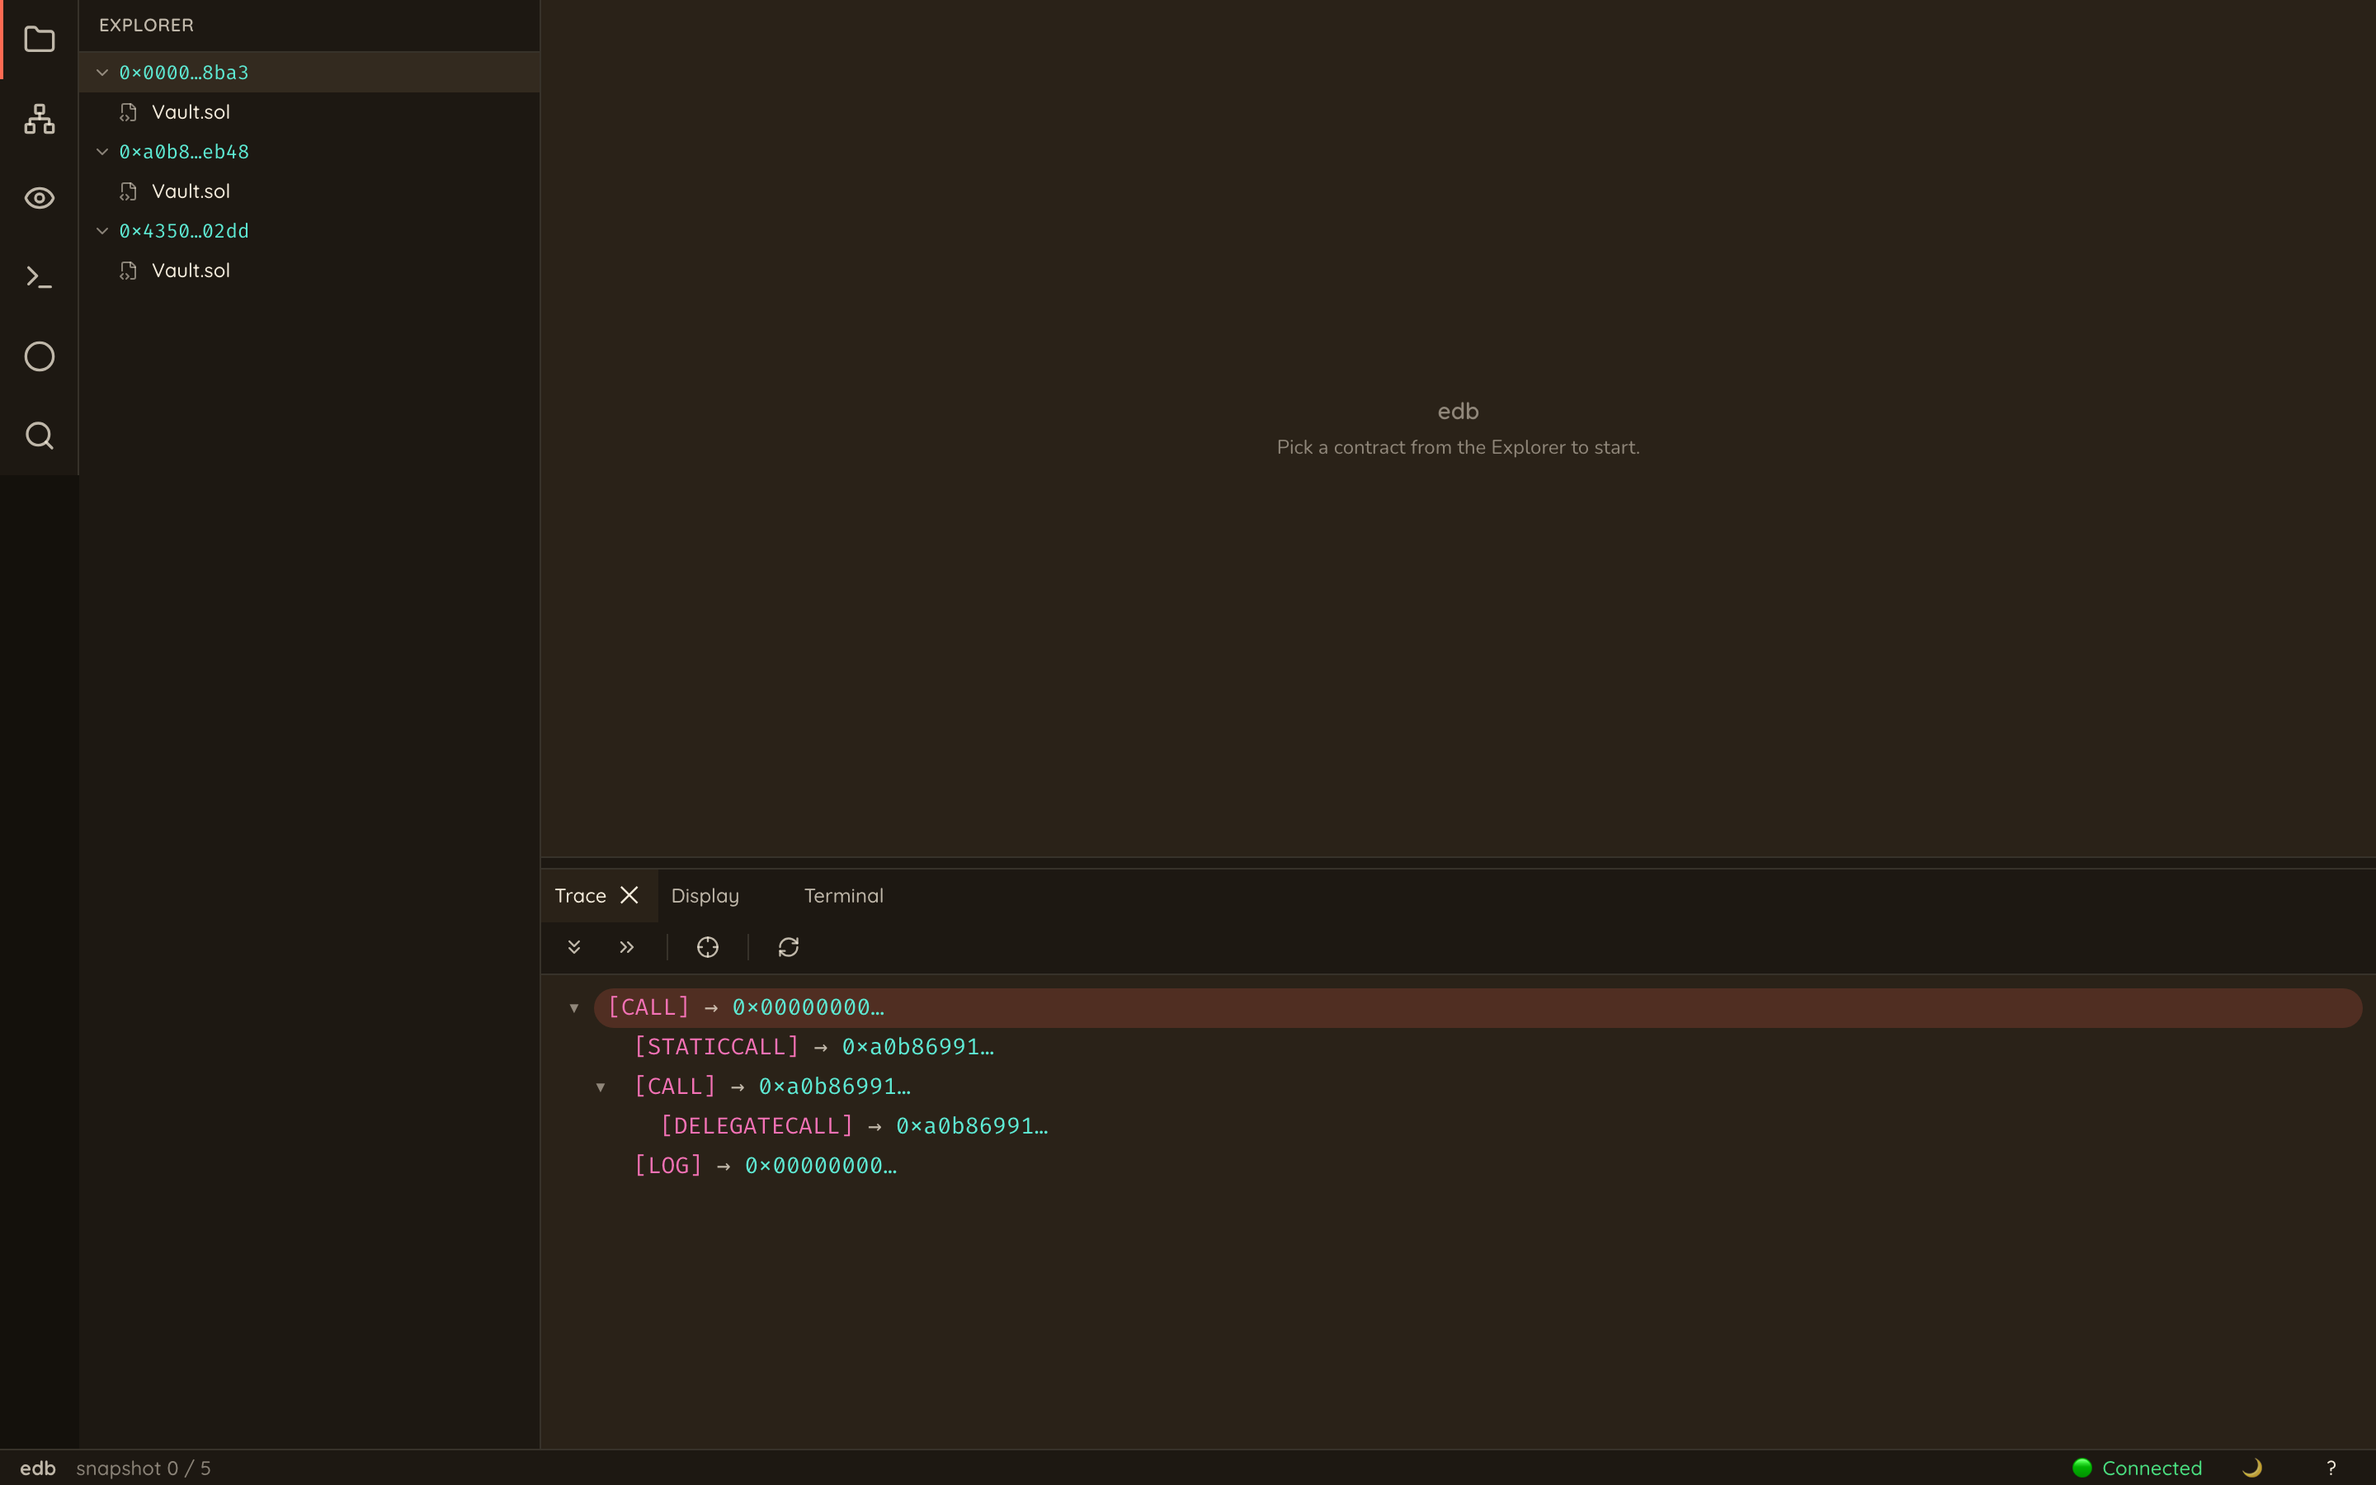
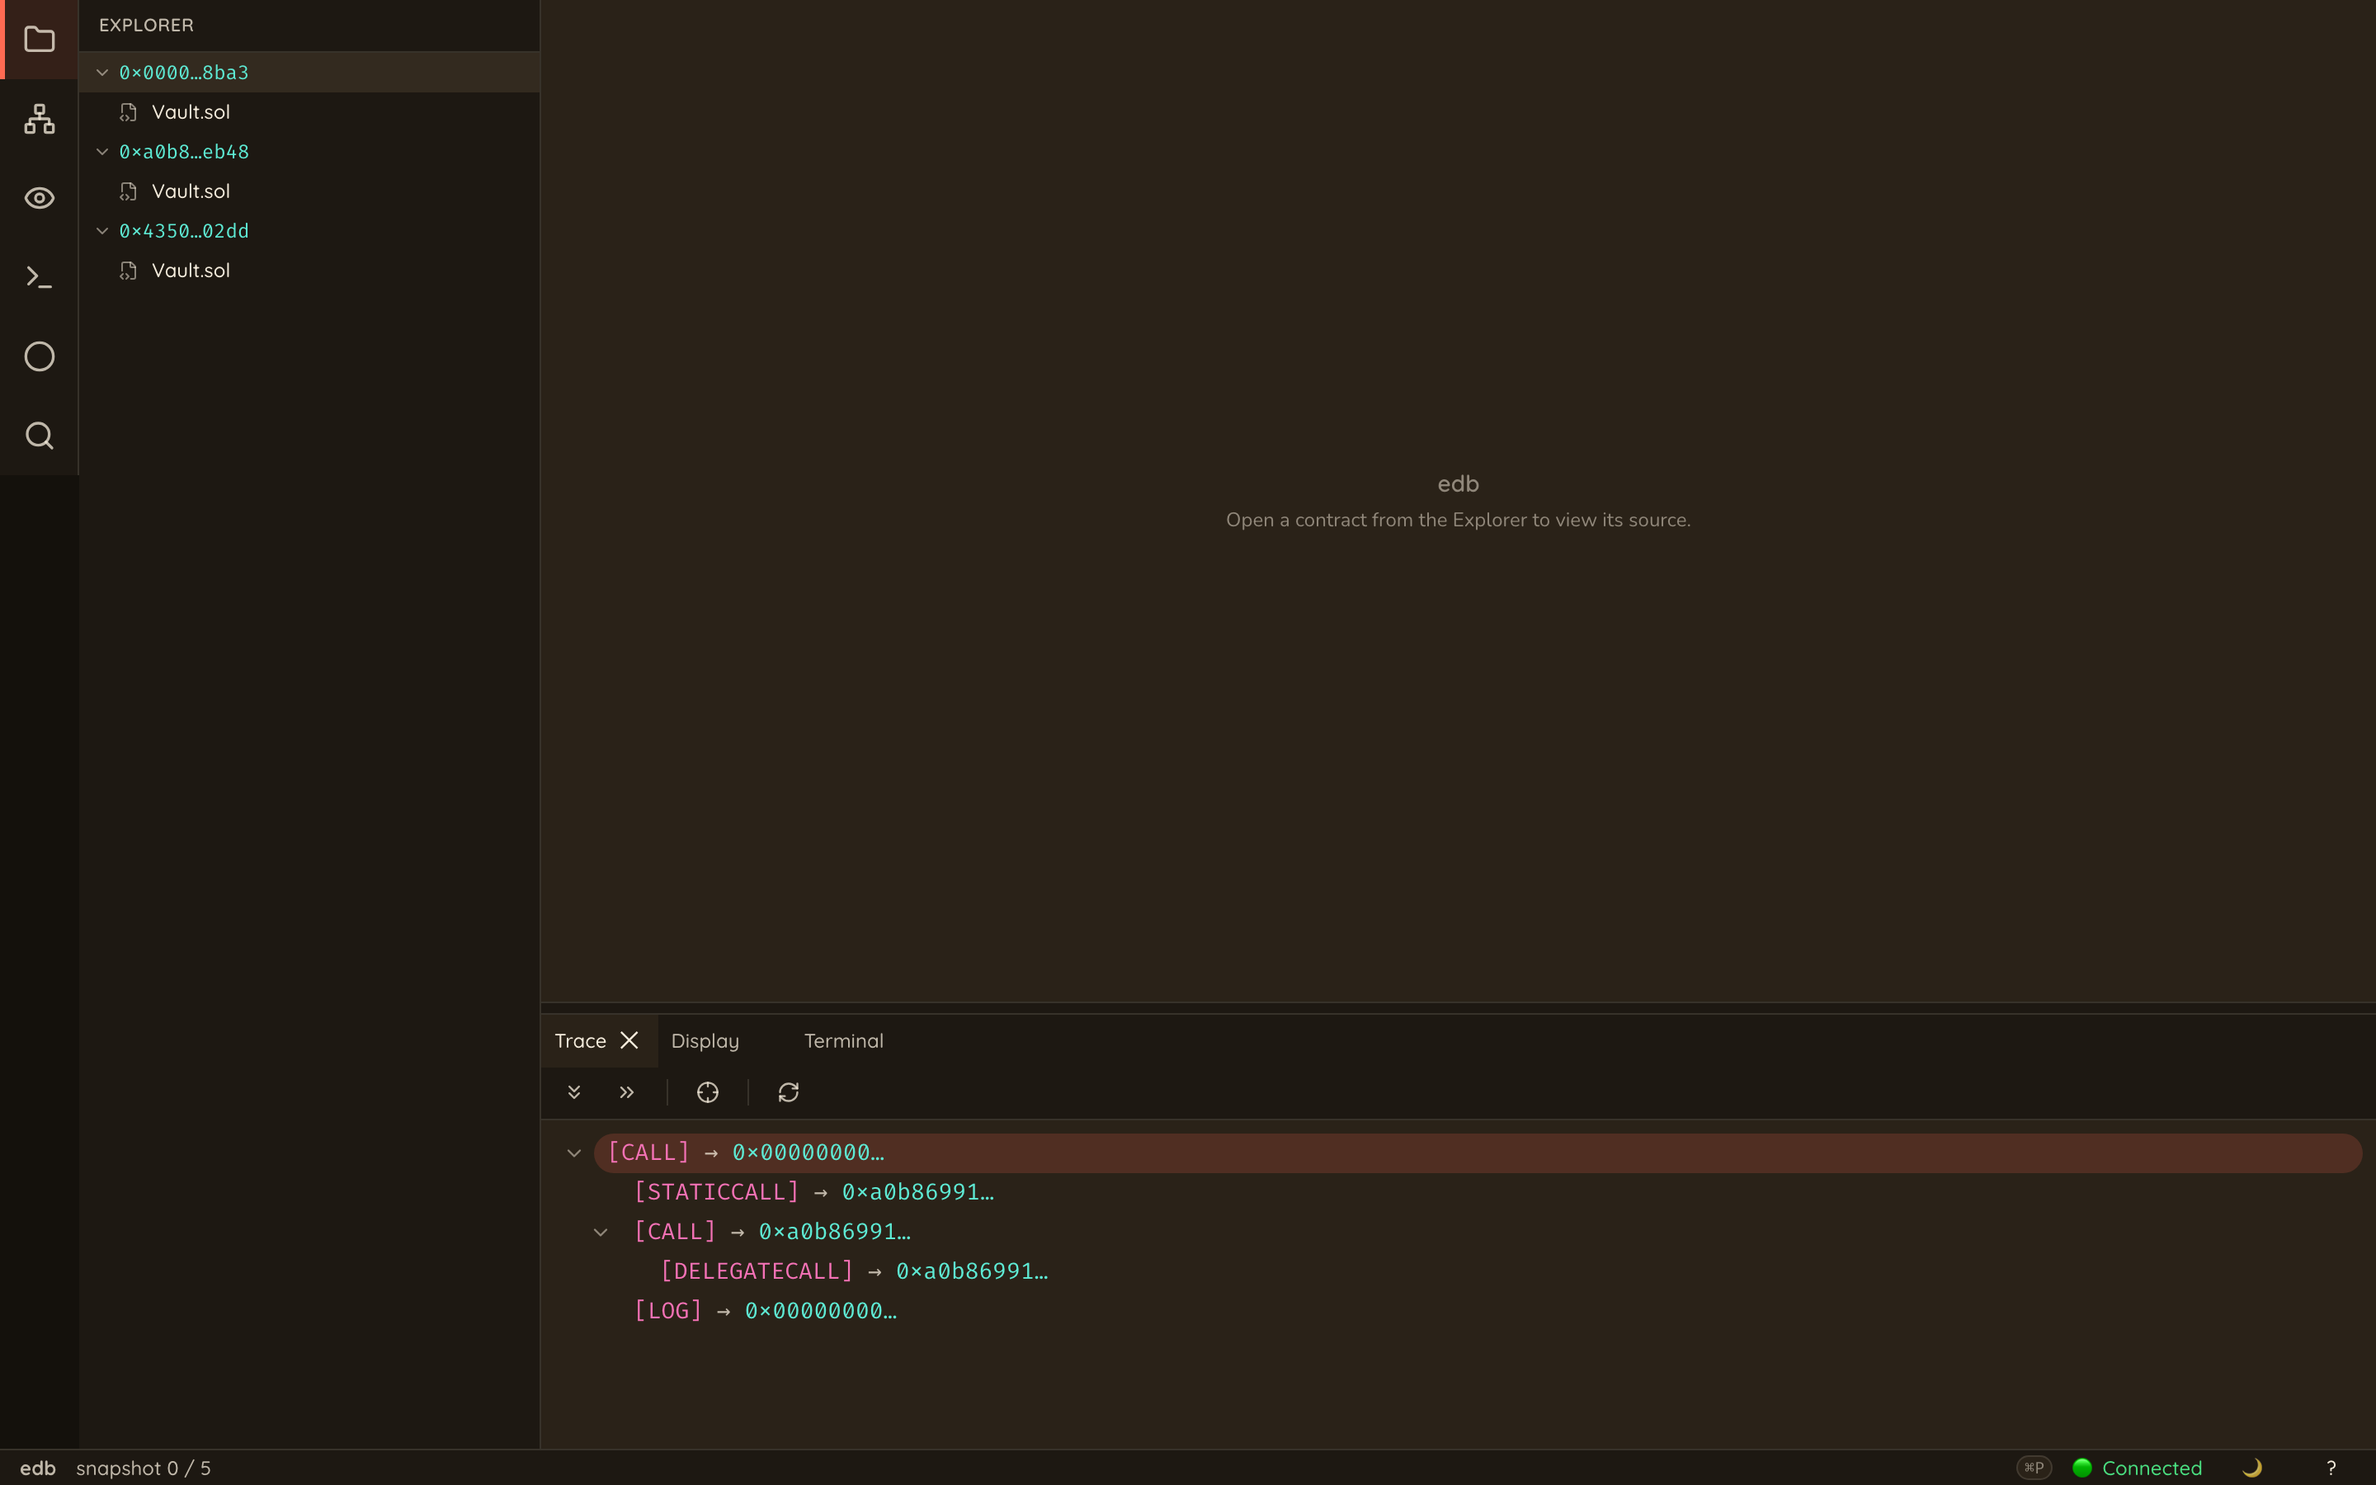
chore(web/ui): audit r3 — nits, polish, and a11y
- ErrorCard Retry button has a hover state.
- Theme toggle gets a 150ms color transition instead of a hard snap.
- Toolbar buttons have an :active scale feedback.
- MemoryView aligns offset + hex columns via grid.
- CommandPalette rows differentiate by row-type icon and hint color.
- FileExplorer preserves focus by row id across refetches.
- StatusBar snapshot label uses fg-secondary for better contrast.
- Empty-state copy unified across FileExplorer, IDELayout, EditorArea.
- ActivityBar active stripe widens to 3px + tinted background.
- Cmd+P hint shows next to the search icon (⌘P on mac, Ctrl+P elsewhere).
- CommandPalette placeholder simplified; syntax hint as subtitle.
- HelpOverlay button gains aria-label and title.
- Screenshots refreshed.

diff --git a/crates/web/frontend/src/components/CommandPalette.tsx b/crates/web/frontend/src/components/CommandPalette.tsx
@@ -1,7 +1,21 @@
 import { useQueryClient } from '@tanstack/react-query';
 import { useEffect, useMemo, useRef, useState } from 'react';
-import { ChevronRight, FileCode2, Hash, Play, Search } from 'lucide-react';
+import {
+  ChevronRight,
+  FileCode2,
+  Hash,
+  Layers,
+  Eye,
+  Network,
+  Settings2,
+  Terminal,
+  Circle,
+  CornerDownLeft,
+  HelpCircle,
+  Search,
+} from 'lucide-react';
 import type { LucideIcon } from 'lucide-react';
+import type { CommandGroup } from '../lib/commands';
 import { useSession } from '../store/session';
 import { useSnapshotCount } from '../hooks/useSnapshotCount';
 import { useNextCall } from '../hooks/useNextCall';
@@ -48,11 +62,26 @@ function pushRecent(id: string) {
   }
 }
 
-function iconFor(kind: PaletteRow['kind']): LucideIcon {
-  if (kind === 'file') return FileCode2;
-  if (kind === 'snapshot') return Hash;
-  if (kind === 'address') return Hash;
-  return Play;
+/** Map a CommandGroup to a representative Lucide icon. */
+function iconForGroup(group: CommandGroup | undefined): LucideIcon {
+  switch (group) {
+    case 'Navigation': return CornerDownLeft;
+    case 'View':       return Eye;
+    case 'Trace':      return Network;
+    case 'Terminal':   return Terminal;
+    case 'Breakpoints':return Circle;
+    case 'Layout':     return Layers;
+    case 'Help':       return HelpCircle;
+    default:           return Settings2;
+  }
+}
+
+function iconFor(row: PaletteRow): LucideIcon {
+  if (row.kind === 'file') return FileCode2;
+  if (row.kind === 'snapshot') return Hash;
+  if (row.kind === 'address') return Hash;
+  // command
+  return iconForGroup(row.group);
 }
 
 export function CommandPalette() {
@@ -178,11 +207,19 @@ function CommandPaletteInner() {
             value={query}
             onChange={(e) => setQuery(e.target.value)}
             onKeyDown={onKey}
-            placeholder="Type a file name, > for commands, : for snapshots…"
+            placeholder="Search files & commands"
             className="flex-1 bg-transparent font-mono text-sm outline-none placeholder:text-(--color-fg-tertiary)"
           />
           <kbd className="font-mono text-[10px] text-(--color-fg-tertiary)">esc</kbd>
         </div>
+        {query.length === 0 && (
+          <div
+            data-testid="palette-syntax-hint"
+            className="border-b border-(--color-border) px-3 py-1 font-mono text-[11px] text-(--color-fg-tertiary)"
+          >
+            Type <kbd>&gt;</kbd> for commands, <kbd>:</kbd> or <kbd>#</kbd> for snapshots.
+          </div>
+        )}
         <ul data-testid="palette-list" className="flex-1 overflow-auto py-1">
           {rows.length === 0 && (
             <li className="px-4 py-6 text-center text-xs text-(--color-fg-tertiary)">
@@ -215,7 +252,10 @@ function PaletteRowView({
   onMouseEnter(): void;
   onClick(): void;
 }) {
-  const Icon = iconFor(row.kind);
+  const Icon = iconFor(row);
+  // The label sits in the primary `--color-fg` token so it pops even on
+  // an inactive row; the hint stays in `--color-fg-tertiary` so the eye
+  // can scan labels without the hint competing.
   return (
     <li>
       <button
@@ -226,13 +266,17 @@ function PaletteRowView({
         data-active={active || undefined}
         className={
           'flex w-full items-center gap-3 px-3 py-1.5 text-left text-sm ' +
-          (active ? 'bg-(--color-bg-active) text-(--color-fg)' : 'text-(--color-fg-secondary) hover:bg-(--color-bg-hover)')
+          (active ? 'bg-(--color-bg-active)' : 'hover:bg-(--color-bg-hover)')
         }
       >
         <Icon size={14} className="shrink-0 text-(--color-fg-tertiary)" />
-        <span className="truncate font-mono">{row.label}</span>
+        <span className={`truncate ${row.kind === 'address' ? 'font-mono' : 'font-display'} text-(--color-fg)`}>
+          {row.label}
+        </span>
         {row.hint && (
-          <span className="ml-auto truncate font-mono text-[11px] text-(--color-fg-tertiary)">{row.hint}</span>
+          <span className="ml-auto truncate font-mono text-[11px] text-(--color-fg-tertiary)">
+            {row.kind === 'snapshot' ? `Navigation · ${row.hint}` : row.hint}
+          </span>
         )}
         {active && <ChevronRight size={12} className="shrink-0 text-(--color-fg-tertiary)" />}
       </button>

diff --git a/crates/web/frontend/src/components/panels/display/MemoryView.tsx b/crates/web/frontend/src/components/panels/display/MemoryView.tsx
@@ -3,6 +3,41 @@ import type { SnapshotInfo } from '../../../lib/types';
 import { formatMemory } from './formatMemory';
 
 /**
+ * Render `formatMemory` output as two grid columns (offset, hex). Falls
+ * back to a single `<pre>` if the output isn't recognisable as
+ * `XXXXXX: hexbytes` rows.
+ */
+function MemoryGrid({ formatted }: { formatted: string }) {
+  if (!formatted) return null;
+  const lines = formatted.split('\n');
+  const rows: { offset: string; hex: string }[] = [];
+  for (const line of lines) {
+    const ix = line.indexOf(': ');
+    if (ix < 0) {
+      // Non-conforming line — bail to plain pre to avoid mangling output.
+      return <pre>{formatted}</pre>;
+    }
+    rows.push({ offset: line.slice(0, ix), hex: line.slice(ix + 2) });
+  }
+  return (
+    <div className="grid grid-cols-[auto_1fr] gap-x-3 font-mono">
+      {rows.map((r, i) => (
+        <FragmentRow key={i} offset={r.offset} hex={r.hex} />
+      ))}
+    </div>
+  );
+}
+
+function FragmentRow({ offset, hex }: { offset: string; hex: string }) {
+  return (
+    <>
+      <span className="text-(--color-fg-tertiary)">{offset}:</span>
+      <span className="break-all">{hex}</span>
+    </>
+  );
+}
+
+/**
  * For a 16 KB memory image we'd render ~512 rows of hex; the synchronous
  * formatting can stutter paint. Default to the first 4 KB and let the user
  * opt into the full dump.
@@ -41,7 +76,7 @@ export function MemoryView({ snap }: { snap: SnapshotInfo | undefined }) {
           </button>
         </div>
       )}
-      <pre>{formatted}</pre>
+      <MemoryGrid formatted={formatted} />
     </div>
   );
 }

diff --git a/crates/web/frontend/src/layout/StatusBar.tsx b/crates/web/frontend/src/layout/StatusBar.tsx
@@ -99,15 +99,40 @@ export function StatusBar() {
     >
       <div className="flex items-center gap-3">
         <span className="font-bold text-(--color-fg-secondary)">edb</span>
-        <span className="text-(--color-fg-tertiary)" data-testid="snapshot-label">
+        <span className="text-(--color-fg-secondary)" data-testid="snapshot-label">
           snapshot {id} / {count ?? '…'}
         </span>
       </div>
       <div className="flex items-center gap-3">
+        <PaletteHint />
         <ConnectionIndicator />
         <ThemeToggle />
         <HelpOverlay />
       </div>
     </footer>
+  );
+}
+
+/** Detect macOS once per page load — doesn't change between renders. */
+const IS_MAC =
+  typeof navigator !== 'undefined' &&
+  typeof navigator.platform === 'string' &&
+  navigator.platform.toLowerCase().includes('mac');
+
+/**
+ * Small `kbd`-styled hint reminding users of the command-palette shortcut.
+ * Sits in the status bar so it's always visible without ever stealing focus.
+ */
+function PaletteHint() {
+  return (
+    <span
+      data-testid="palette-hint"
+      aria-hidden
+      className="hidden items-center gap-1 text-(--color-fg-tertiary) sm:inline-flex"
+    >
+      <kbd className="rounded border border-(--color-border) bg-(--color-bg-elevated) px-1 font-mono text-[10px]">
+        {IS_MAC ? '⌘' : 'Ctrl'}P
+      </kbd>
+    </span>
   );
 }

diff --git a/crates/web/frontend/src/components/palette/buildRows.ts b/crates/web/frontend/src/components/palette/buildRows.ts
@@ -1,10 +1,10 @@
-import { COMMANDS, type Command, type CommandCtx } from '../../lib/commands';
+import { COMMANDS, type Command, type CommandCtx, type CommandGroup } from '../../lib/commands';
 import { rankBy } from '../../lib/fuzzyMatch';
 import { PALETTE_RESULT_CAP } from '../../lib/constants';
 import type { AvailableFile } from '../../hooks/useAvailableFiles';
 
 export type PaletteRow =
-  | { kind: 'command'; id: string; label: string; hint?: string; group?: string; run(): void }
+  | { kind: 'command'; id: string; label: string; hint?: string; group?: CommandGroup; run(): void }
   | { kind: 'file'; id: string; label: string; hint?: string; run(): void }
   | { kind: 'snapshot'; id: string; label: string; hint?: string; run(): void }
   | { kind: 'address'; id: string; label: string; hint?: string; run(): void };

diff --git a/crates/web/frontend/src/layout/ActivityBar.tsx b/crates/web/frontend/src/layout/ActivityBar.tsx
@@ -38,13 +38,13 @@ export function ActivityBar() {
             aria-pressed={isActive}
             data-testid={`activity-${key}`}
             className={`relative flex h-12 items-center justify-center text-(--color-fg-secondary) transition hover:text-(--color-fg) ${
-              isActive ? 'text-(--color-fg)' : ''
+              isActive ? 'text-(--color-fg) bg-(--color-accent)/10' : ''
             }`}
           >
             {isActive && (
               <span
                 aria-hidden
-                className="absolute top-0 bottom-0 left-0 w-0.5 bg-(--color-accent)"
+                className="absolute top-0 bottom-0 left-0 w-[3px] bg-(--color-accent)"
               />
             )}
             <Icon size={20} />

diff --git a/crates/web/frontend/src/components/Toolbar.tsx b/crates/web/frontend/src/components/Toolbar.tsx
@@ -56,8 +56,9 @@ export function ToolbarButton({
       data-testid={testid}
       className={
         'flex h-6 w-6 items-center justify-center rounded-[var(--radius)] ' +
-        'text-(--color-fg-secondary) transition ' +
+        'text-(--color-fg-secondary) transition-transform duration-75 ' +
         'hover:bg-(--color-bg-hover) hover:text-(--color-fg) ' +
+        'active:scale-95 ' +
         'disabled:opacity-40 disabled:cursor-not-allowed ' +
         (active ? 'bg-(--color-bg-active) text-(--color-fg) ' : '') +
         (className ?? '')

diff --git a/crates/web/frontend/src/layout/IDELayout.tsx b/crates/web/frontend/src/layout/IDELayout.tsx
@@ -94,8 +94,9 @@ export function IDELayout() {
           role="status"
           className="flex items-center justify-center border-b border-(--color-border) bg-(--color-bg-elevated) px-4 py-2 font-display text-xs text-(--color-fg-secondary)"
         >
-          No trace loaded — start with{' '}
+          No trace yet — run{' '}
           <code className="mx-1 font-mono">edb replay --ui=web &lt;tx&gt;</code>
+          {' '}to load one.
         </div>
       )}
       <div className="flex flex-1 overflow-hidden">

diff --git a/crates/web/frontend/src/layout/EditorArea.tsx b/crates/web/frontend/src/layout/EditorArea.tsx
@@ -136,7 +136,7 @@ function EditorEmpty() {
     >
       <div className="text-center">
         <div className="font-display text-sm font-semibold">edb</div>
-        <div className="mt-1 text-xs">Pick a contract from the Explorer to start.</div>
+        <div className="mt-1 text-xs">Open a contract from the Explorer to view its source.</div>
       </div>
     </div>
   );

diff --git a/crates/web/frontend/src/components/explorer/FileExplorer.tsx b/crates/web/frontend/src/components/explorer/FileExplorer.tsx
@@ -164,7 +164,7 @@ function FileExplorerInner() {
   if (addresses.length === 0)
     return (
       <div className="px-3 py-2 text-xs text-(--color-fg-tertiary)" data-testid="explorer-empty">
-        No contracts in trace.
+        No trace yet — run <code className="font-mono">edb replay --ui=web &lt;tx&gt;</code> to load one.
       </div>
     );
 

diff --git a/crates/web/frontend/src/styles/tailwind.css b/crates/web/frontend/src/styles/tailwind.css
@@ -69,6 +69,8 @@ html, body, #root {
   color: var(--color-fg);
   background: var(--color-bg-root);
   -webkit-font-smoothing: antialiased;
+  /* soften the light/dark flip — feels less jarring than an instant snap */
+  transition: background-color 150ms ease, color 150ms ease;
 }
 
 *, *::before, *::after { box-sizing: border-box; }

diff --git a/crates/web/frontend/src/components/HelpOverlay.tsx b/crates/web/frontend/src/components/HelpOverlay.tsx
@@ -24,7 +24,8 @@ export function HelpOverlay() {
         type="button"
         data-testid="help-open"
         onClick={() => setOpen(true)}
-        aria-label="Open help"
+        aria-label="Help"
+        title="Help (?)"
         className="rounded-[var(--radius)] px-3 py-1 hover:bg-(--color-bg-hover)"
       >
         ?
